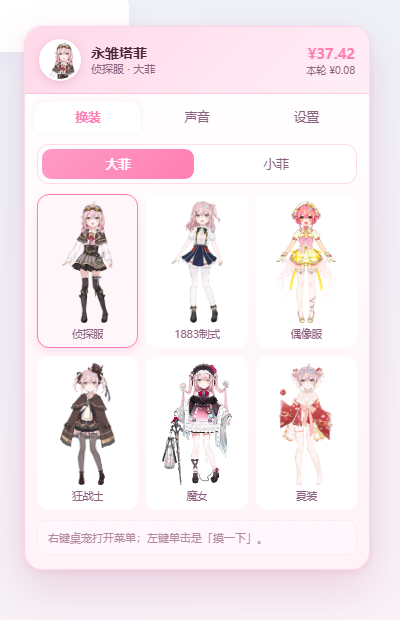
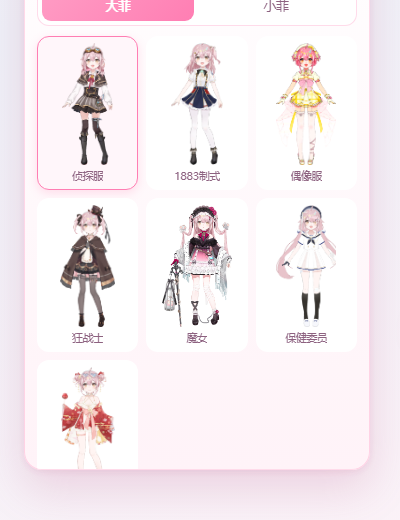
feat: 恢复大菲「保健委员」立绘
只移除没有合适素材的小菲版本，大菲保留（重新自官方立绘 sheet 抠图，545×1100）

diff --git a/README.md b/README.md
@@ -9,7 +9,7 @@
 </p>
 
 - **大菲 / 小菲** 两种形态，一键切换
-- **6 套全身透明立绘**（侦探服 / 1883 制式 / 偶像服 / 狂战士 / 魔女 / 夏装），丢文件就能加新套装
+- **7 套全身透明立绘**（侦探服 / 1883 制式 / 偶像服 / 狂战士 / 魔女 / 保健委员 / 夏装），丢文件就能加新套装
 - **点击有反应**：按下压扁、松手回弹，冒爱心、随机弹一句台词
 - **按压随机语音**：内置 68 段塔菲语音，同一条播放规则下**新的一句会掐掉上一句**，不重叠
 - **余额气泡**：粉色调语音泡，点击时弹出余额 / 今日 / 本轮消耗，自动避让屏幕边缘
